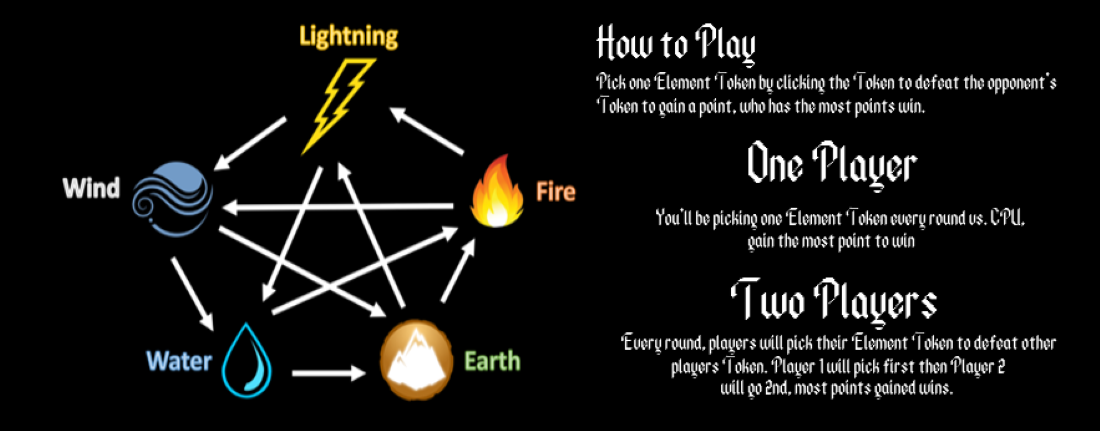
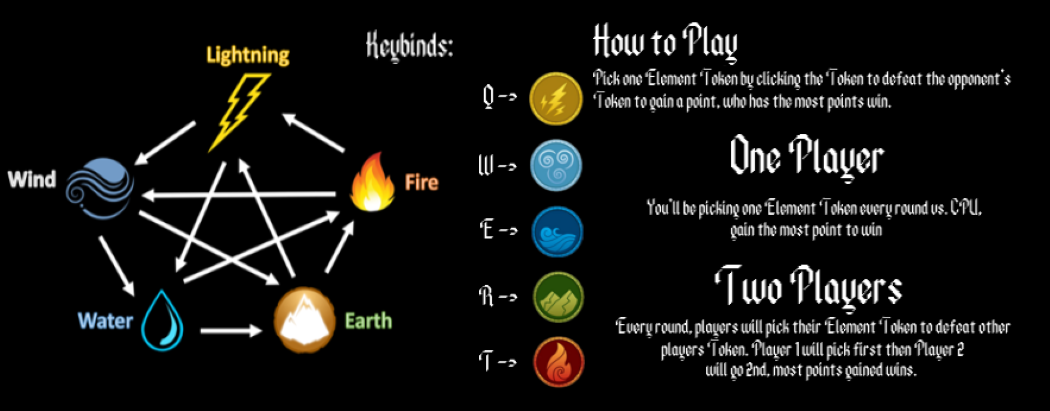
added new hint image

Changed region(s): [[0.0, 0.0584, 0.9752, 0.9635], [0.579, 0.4672, 0.9448, 0.5839], [0.6705, 0.3212, 0.8533, 0.4672]]

diff --git a/main.py b/main.py
@@ -4,6 +4,4 @@ g = game_menu.Game()
 
 while g.running:
     g.game_loop()
-    # print(g.curr_menu)
-    # print(g.playing, g.playing2)
     g.curr_menu.display_menu()
